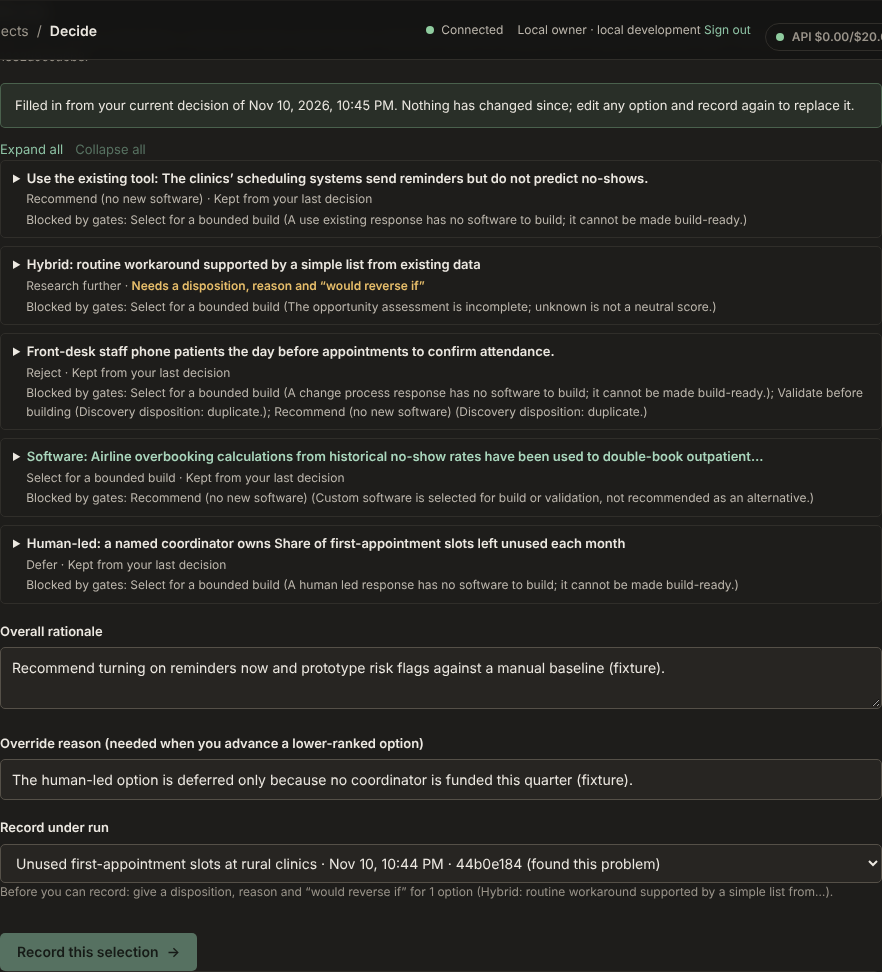
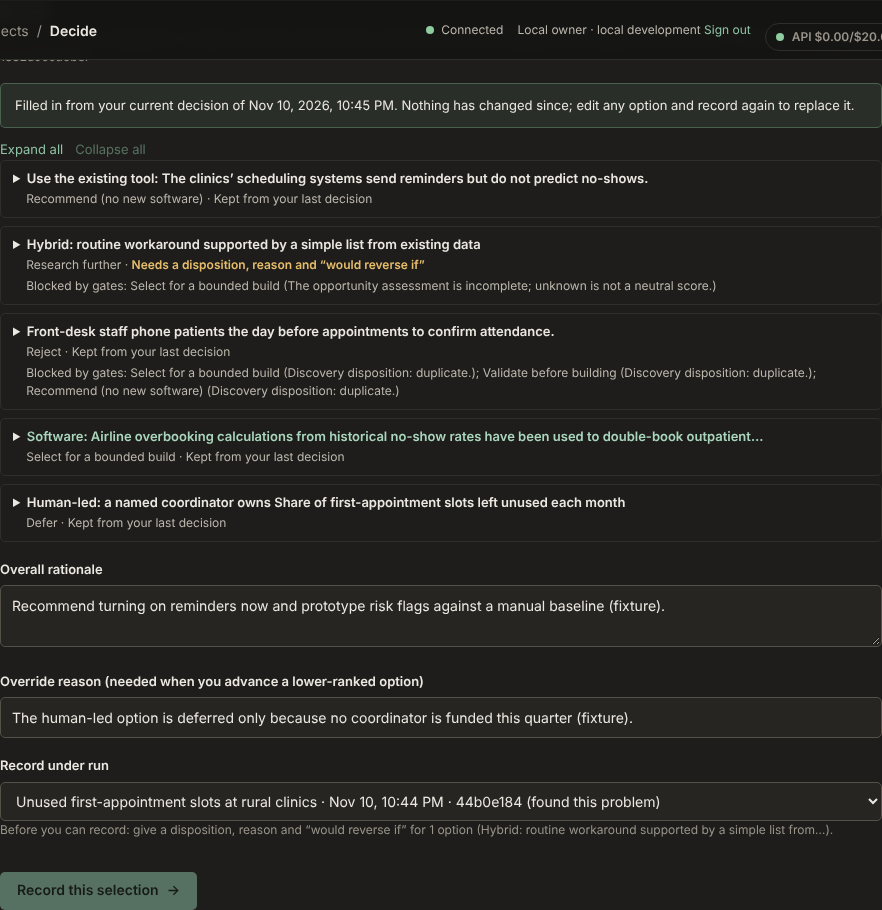
P18 re-review fixes R-1 to R-4
R-1 a linked decision opens on every return to Approvals; R-2 another proposal opened
any way starts with its own section defaults; R-3 Decide summaries name only blocks the
person can clear (kind-based blocks stay in the dropdown); R-4 tracking wording. Walk
re-run; no migration or ADR.

Claude-Session: https://claude.ai/code/session_01JTbuZpyaYGiyVUZMP5WrwX

diff --git a/apps/web/src/compare.tsx b/apps/web/src/compare.tsx
@@ -77,6 +77,19 @@ function pendingReviews(
   return out;
 }
 
+/**
+ * Blocks that follow from an option's kind and that no review or score can clear (the
+ * wording of packages/domain/src/selection.ts). Shown in the dropdown, not in summaries.
+ */
+const KIND_BLOCKS = [
+  'has no software to build',
+  'Custom software is selected for build or validation',
+  'outcome is not a response to recommend',
+  'A failed outcome cannot be validated',
+];
+const kindBlock = (reason: string) =>
+  KIND_BLOCKS.some((k) => reason.includes(k));
+
 const FRESH_NOTE: Record<string, string> = {
   current: 'current',
   stale: 'older than the freshness limit',
@@ -465,16 +478,17 @@ export function Compare({
   const rowFolds = useFolds(viewer ? [] : firstNeeding(altIds, needsYou));
   const historyFolds = useFolds([]);
   const blockedCount = (id: string) =>
-    Object.values(suit.get(id)?.gates.blocked ?? {}).filter((x) => x?.length)
-      .length;
-  // Review L-2: which choices gates block, and the first reason for each.
+    Object.values(suit.get(id)?.gates.blocked ?? {}).filter((x) =>
+      x?.some((r) => !kindBlock(r)),
+    ).length;
+  // Review L-2: which choices gates block, and the first reason for each. Re-review R-3:
+  // only reasons the person can clear; a block that follows from the option's kind (e.g.
+  // "has no software to build") stays in the dropdown, not in every summary.
   const blockedText = (id: string) =>
     SelectionDispositionSchema.options
       .flatMap((o) => {
-        const why = suit.get(id)?.gates.blocked[o];
-        return why?.length
-          ? [`${DISPOSITION_NOTE[o]} (${clip(why[0]!, 90)})`]
-          : [];
+        const why = suit.get(id)?.gates.blocked[o]?.find((r) => !kindBlock(r));
+        return why ? [`${DISPOSITION_NOTE[o]} (${clip(why, 90)})`] : [];
       })
       .join('; ');
   return (
@@ -984,7 +998,7 @@ export function Compare({
                               </>
                             )}
                           </span>
-                          {blockedCount(id) > 0 && (
+                          {blockedText(id) && (
                             <span className="fold-line small">
                               Blocked by gates: {blockedText(id)}
                             </span>

diff --git a/apps/web/src/proposals.tsx b/apps/web/src/proposals.tsx
@@ -1,4 +1,4 @@
-import { useEffect, useState, type FormEvent } from 'react';
+import { useEffect, useRef, useState, type FormEvent } from 'react';
 import {
   CORE_PROPOSAL_SECTIONS,
   PROPOSAL_KINDS,
@@ -310,6 +310,14 @@ export function Proposals({
   // Review L-6: the sections the person opened stay open across saves, which remount the
   // editor; picking another proposal or starting a new one starts afresh.
   const [sectionChoices, setSectionChoices] = useFoldChoices();
+  // Re-review R-2: opening another proposal any way (a link from Decide, an address) starts
+  // afresh too; the step from a new draft ('') to its first saved id keeps the choices.
+  const shownProposal = useRef(focus);
+  useEffect(() => {
+    if (shownProposal.current && focus && shownProposal.current !== focus)
+      setSectionChoices({});
+    if (focus) shownProposal.current = focus;
+  }, [focus]);
 
   async function start(e: Eligible) {
     setError('');
@@ -370,10 +378,7 @@ export function Proposals({
                   <button
                     className={`text${p.id === focus ? ' current' : ''}`}
                     aria-current={p.id === focus ? 'true' : undefined}
-                    onClick={() => {
-                      if (p.id !== focus) setSectionChoices({});
-                      onFocus(p.id);
-                    }}
+                    onClick={() => onFocus(p.id)}
                   >
                     {p.title}
                   </button>{' '}

diff --git a/apps/web/src/oversight.tsx b/apps/web/src/oversight.tsx
@@ -1,5 +1,5 @@
 import { useEffect, useRef, useState, type FormEvent } from 'react';
-import { usePageActive } from './page-drafts.js';
+import { useOnShow, usePageActive } from './page-drafts.js';
 import { RoutinePolicies } from './routine-policy.js';
 import { runLabel } from './labels.js';
 import { Fold, FoldAll, useFolds, type Folds } from './fold.js';
@@ -736,6 +736,10 @@ export function Oversight({
   useEffect(() => {
     if (focus) decisionFolds.set(focus, true);
   }, [focus]);
+  // Re-review R-1: the page stays mounted with the same id, so also open it on each return.
+  useOnShow(() => {
+    if (focus) decisionFolds.set(focus, true);
+  });
   const policyRun = (runId: string) => {
     const r = runs.find((x) => x.run_id === runId);
     return r ? runLabel(r, runNames) : `run ${runId.slice(0, 8)}`;

diff --git a/tests/src/web-session.test.ts b/tests/src/web-session.test.ts
@@ -49,7 +49,7 @@ test('browser session retains sign-in on failed logout and clears it after confi
           useEffect: () => undefined,
         }
       : name === './page-drafts.js'
-        ? { usePageActive: () => true }
+        ? { usePageActive: () => true, useOnShow: () => undefined }
         : name === './labels.js' ||
             name === './routine-policy.js' ||
             name === './fold.js'

diff --git a/tracking/BUILD_STATUS.md b/tracking/BUILD_STATUS.md
@@ -879,7 +879,7 @@ row arrives with docs PR #158). Web only; no data, route, gate, scoring or API c
 - L-2 Decide: an option's summary names each choice gates block and its first reason ("Blocked by gates: Select for
   a bounded build (…)") instead of only a count.
 - L-3 Proposals: a section a check blocks (`level: blocker` for that section, e.g. no cited claim, a cited claim
-  missing or stale) gets the attention style, shows "Written, blocked: …" and can be the section that opens.
+  missing or no longer active) gets the attention style, shows "Written, blocked: …" and can be the section that opens.
 - L-4 Decide: "Before you can record" no longer names a new, untouched option twice.
 - L-5 Approvals: the question heading is inside the summary (read once; closed cards keep a heading); "expires"
   shows once.
@@ -892,3 +892,20 @@ row arrives with docs PR #158). Web only; no data, route, gate, scoring or API c
   L-1 and L-4 need a revised alternative after a recorded selection and were checked from the code, not walked.
 - Checks after the fixes (cloud container, PostgreSQL 16, no CI): `pnpm typecheck` and `pnpm format:check` pass;
   `pnpm test:db` 910 tests, 876 pass, 29 skip, 5 fail (the known no-`pwsh` wrapper tests). Not re-reviewed yet.
+
+### P18 re-review fixes (November 11, same PR #162; re-review `reviews/P18_PR162_REREVIEW_2026-11-10.md`, 3 Lows and a nit)
+
+- R-1 Approvals: a linked decision opens on every return to the page (`useOnShow`), not only when the id changes, so
+  following the same link again after closing the card opens it.
+- R-2 Proposals: opening a different proposal any way (list, Decide's link, an address) clears the section choices;
+  the step from a new draft to its first saved id keeps them.
+- R-3 Decide: summaries name only blocks the person can clear; blocks that follow from the option's kind ("has no
+  software to build", "Custom software is selected for build or validation", "not a response to recommend", "A
+  failed outcome cannot be validated") stay in the dropdown. The alternatives' "N choices blocked" counts the same way.
+- R-4: the L-3 entry above now says "missing or no longer active" (a stale citation is a warning, not a blocker).
+- Evidence: `walk.cjs` re-run (output replaced): R-1 same link after closing opens the card; R-2 after Expand all on
+  one proposal, another opened by address shows its own default (1 of 15 open); R-3 collapsed option summaries
+  52/73/91/52/52 px at 1280 wide (re-review measured about 110 px each before). A second proposal for the walk was
+  created through the API on the throwaway database.
+- Checks (cloud container, PostgreSQL 16, no CI): `pnpm typecheck` and `pnpm format:check` pass; `pnpm test:db` 910
+  tests, 876 pass, 29 skip, 5 fail (the known no-`pwsh` wrapper tests). `web-session.test.ts` stub gains `useOnShow`.
